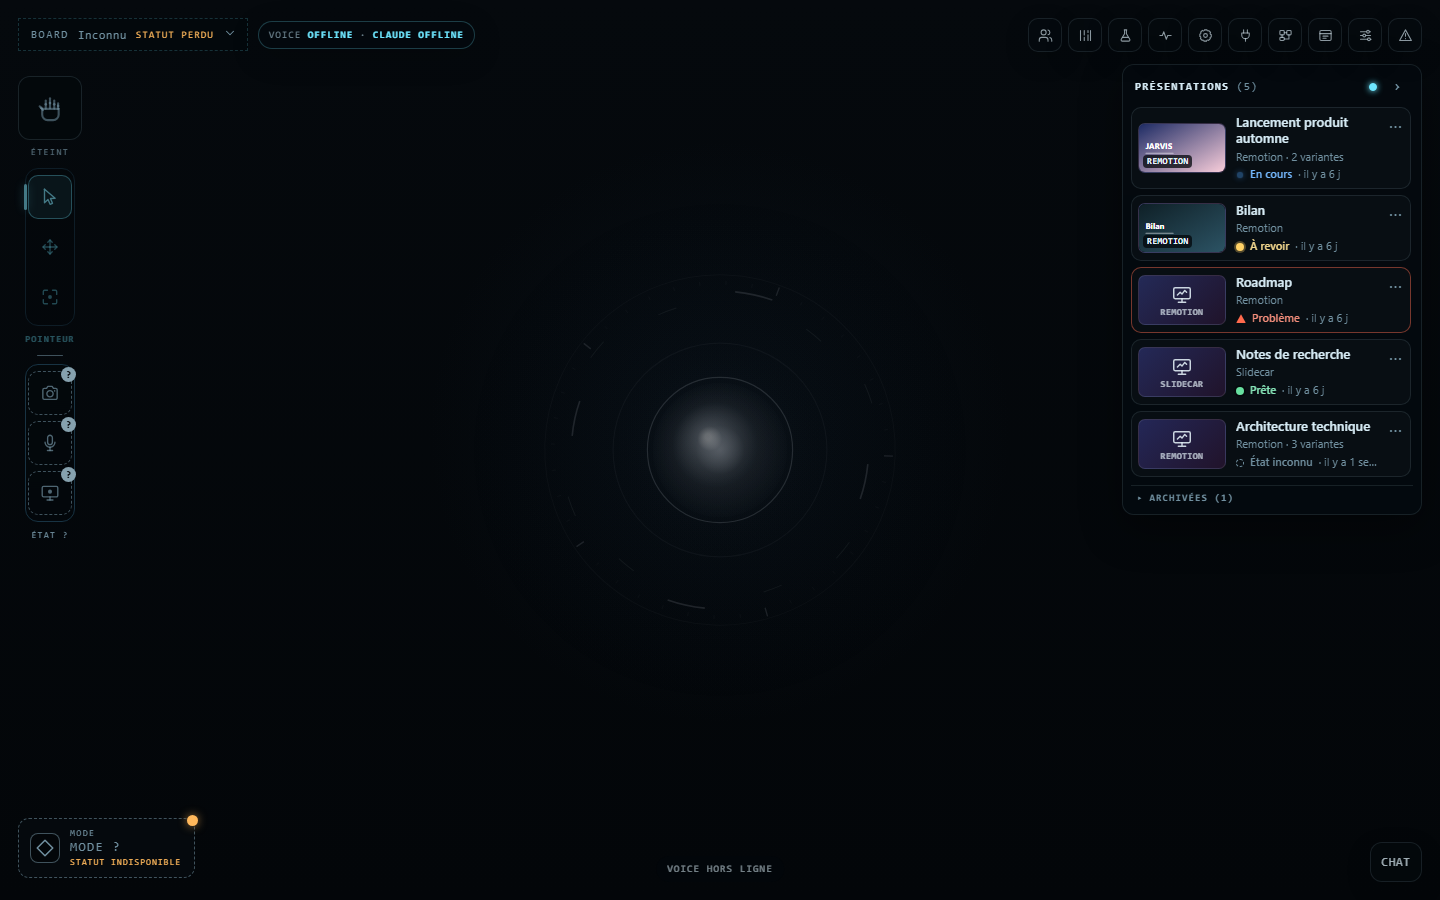
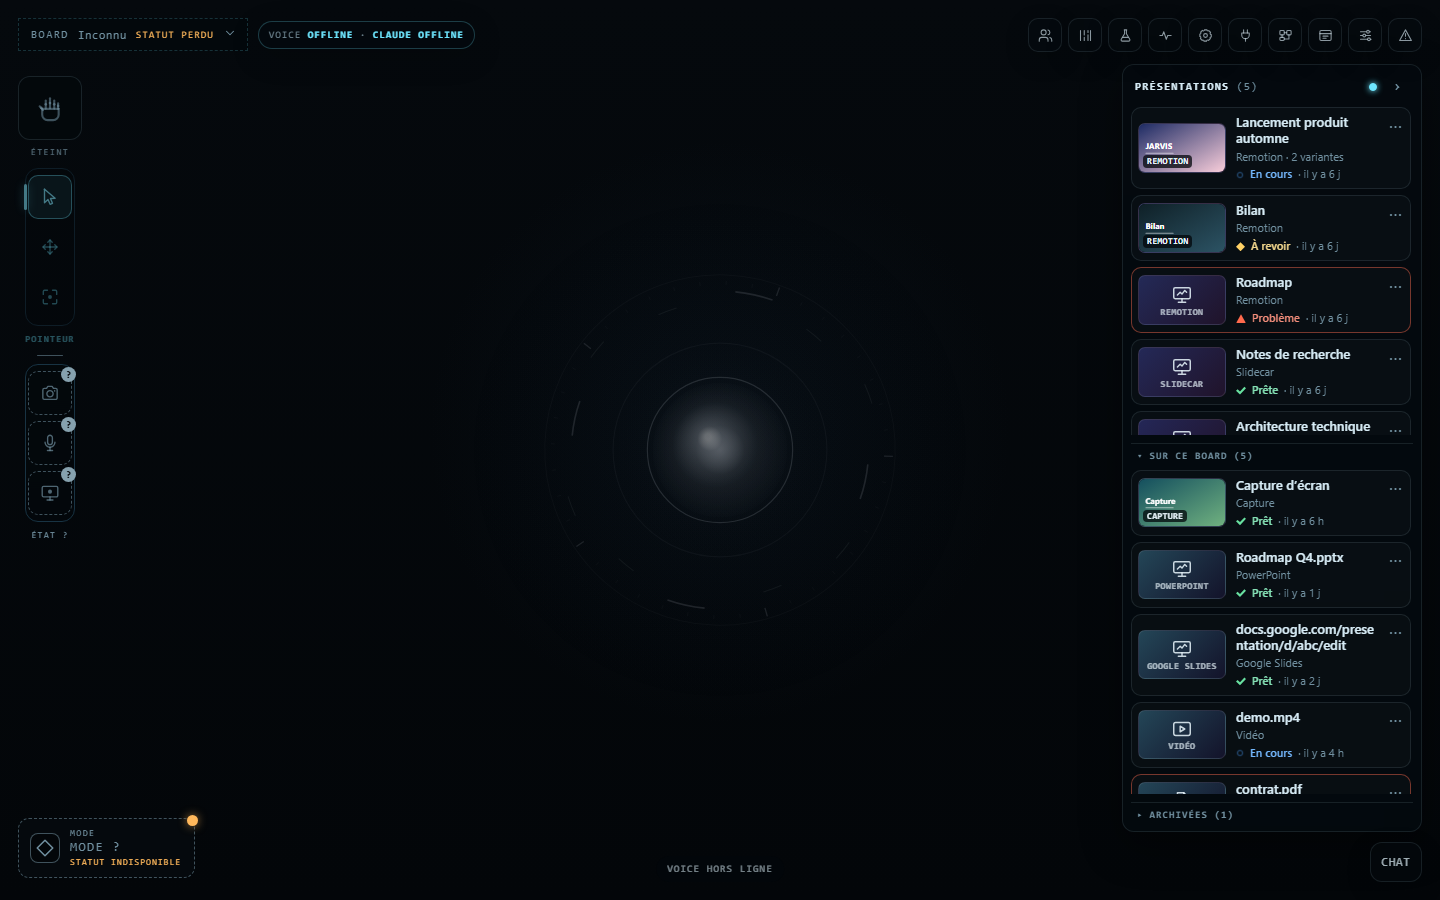
S7: rework - focus kept for every rail card, a shape per state, review said in words
Focus survives poll re-renders for Board and folded cards and Esc from a
card menu returns to the card (restored by data-id). Each state has its
own mark shape in every density (ring, triangle, diamond, check, dashed
ring). The tooltip no longer shows the internal unreviewed label.

Changed region(s): [[0.7812, 0.4667, 0.9688, 0.9333], [0.8438, 0.2489, 0.9062, 0.28], [0.875, 0.4044, 0.9062, 0.4356]]

diff --git a/jarvis/runtime/control_center_presentation_rail.js b/jarvis/runtime/control_center_presentation_rail.js
@@ -46,7 +46,7 @@
   const ID_ARTIFACT=/^[a-z][a-z0-9]*_[A-Za-z0-9_]{6,80}$/;
   const STORAGE_KEY='jarvis.presentationRail.v1';
   /* Le libellé accompagne TOUJOURS la pastille (la couleur ne porte jamais l'état seule) : long pour l'infobulle et l'ARIA, court à l'écran. */
-  const STATE_LABEL=Object.freeze({working:'Un agent travaille dessus',problem:'Un problème est survenu',unreviewed:'Modifiée par Jarvis, à revoir',
+  const STATE_LABEL=Object.freeze({working:'Un agent travaille dessus',problem:'Un problème est survenu',unreviewed:'Modifiée par Jarvis — à revoir',
     done:'Terminé',unknown:'État inconnu'});
   const STATE_SHORT=Object.freeze({working:'En cours',problem:'Problème',unreviewed:'À revoir',done:'Prête',unknown:'État inconnu'});
   /* Étape B : état d'un Artifact du Board (pas de jaune : aucun propriétaire canonique de « revu »). */
@@ -209,10 +209,14 @@
 #${DOM.hostId} .jvr-item[data-state=unknown] .jvr-state{color:var(--jvr-mute)}
 #${DOM.hostId} .jvr-when{color:var(--jvr-mute);overflow:hidden;text-overflow:ellipsis}
 #${DOM.hostId} .jvr-dot{flex:0 0 auto;width:8px;height:8px;border-radius:50%;background:var(--c);box-shadow:0 0 0 2px rgba(0,0,0,.35)}
-#${DOM.hostId} .jvr-item[data-state=working] .jvr-dot{animation:jvr-pulse 1.3s ease-in-out infinite;box-shadow:0 0 8px var(--c)}
-#${DOM.hostId} .jvr-item[data-state=problem] .jvr-dot{width:10px;height:9px;border-radius:1px;clip-path:polygon(50% 0,100% 100%,0 100%);box-shadow:none}
-#${DOM.hostId} .jvr-item[data-state=unreviewed] .jvr-dot{box-shadow:0 0 0 2px color-mix(in srgb,var(--c) 30%,transparent)}
-#${DOM.hostId} .jvr-item[data-state=unknown] .jvr-dot{border:1px dashed var(--jvr-mute);box-shadow:none}
+/* A shape per state (status never by colour alone, also in the 72 px strip where the label hides): working = ring (pulsing), problem =
+   triangle, unreviewed = diamond, done = check, unknown = dashed hollow ring. Same rules for the header's « most urgent » mark and the bubble. */
+#${DOM.hostId} :is([data-state=working] .jvr-dot,.jvr-urgent[data-state=working]){-webkit-mask:radial-gradient(circle,transparent 2px,#000 2.6px);mask:radial-gradient(circle,transparent 2px,#000 2.6px);box-shadow:none}
+#${DOM.hostId} .jvr-item[data-state=working] .jvr-dot{animation:jvr-pulse 1.3s ease-in-out infinite}
+#${DOM.hostId} :is([data-state=problem] .jvr-dot,.jvr-urgent[data-state=problem]){width:10px;height:9px;border-radius:1px;clip-path:polygon(50% 0,100% 100%,0 100%);box-shadow:none}
+#${DOM.hostId} :is([data-state=unreviewed] .jvr-dot,.jvr-urgent[data-state=unreviewed]){width:9px;height:9px;border-radius:1px;clip-path:polygon(50% 0,100% 50%,50% 100%,0 50%);box-shadow:none}
+#${DOM.hostId} :is([data-state=done] .jvr-dot,.jvr-urgent[data-state=done]){width:10px;height:9px;border-radius:0;clip-path:polygon(0 52%,16% 36%,40% 60%,84% 8%,100% 24%,40% 94%);box-shadow:none}
+#${DOM.hostId} [data-state=unknown] .jvr-dot{border:1px dashed var(--jvr-mute);box-shadow:none}
 #${DOM.hostId} .jvr-item[data-state=problem]{border-color:color-mix(in srgb,var(--sem-problem,#ff6a4d) 45%,transparent)}
 @keyframes jvr-pulse{50%{opacity:.35;transform:scale(.8)}}
 @media (prefers-reduced-motion:reduce){#${DOM.hostId} .jvr-item[data-state=working] .jvr-dot{animation:none}#${DOM.hostId} .jvr-item{transition:none}}
@@ -399,8 +403,7 @@ html.jvr-studio.jvr-slim #${DOM.hostId}{width:44px;padding:8px 4px}
       if(card.when)status.append(el('span','jvr-when',`· ${card.when}`));
       body.append(name,meta,status);b.append(body);
       const detail=card.state==='problem'&&row.work&&row.work.message?` — ${cleanLine(row.work.message,120)}`:'';
-      const review=card.state==='unreviewed'&&row.unreviewed&&row.unreviewed.label?` (${cleanLine(row.unreviewed.label,40)})`:'';
-      b.title=`${card.title}\n${card.meta}\n${card.stateLabel}${detail}${review}${card.when?`\nModifiée ${card.when}`:''}${row.hidden?'\nMasquée du rail':''}${row.archived?'\nArchivée (restaurable)':''}`;
+      b.title=`${card.title}\n${card.meta}\n${card.stateLabel}${detail}${card.when?`\nModifiée ${card.when}`:''}${row.hidden?'\nMasquée du rail':''}${row.archived?'\nArchivée (restaurable)':''}`;
       b.setAttribute('aria-label',`${card.title}, ${card.type.label} : ${card.stateLabel.toLowerCase()}${row.hidden?', masquée':''}${row.archived?', archivée':''}`);
       b.addEventListener('click',()=>{if(row.archived){openMenuFor(row,b);return}openRow(row.presentation_id,'click')});
       b.addEventListener('contextmenu',e=>{e.preventDefault();openMenuFor(row,b,e.clientX,e.clientY)});
@@ -443,7 +446,7 @@ html.jvr-studio.jvr-slim #${DOM.hostId}{width:44px;padding:8px 4px}
       const row=wsItem?null:rowOf(item.dataset.id);if((!row&&!wsItem)||!ui.peek)return;
       const card=wsItem?wsCardOf(wsItem):cardOf(row,now());
       clear(ui.peek);
-      const status=el('span','jvr-status');status.style.setProperty('--c',card.color);
+      const status=el('span','jvr-status');status.style.setProperty('--c',card.color);status.dataset.state=card.state;
       const dot=el('span','jvr-dot');status.append(dot,el('span','jvr-state',card.stateShort));
       ui.peek.append(el('span','jvr-name',card.title),el('span','jvr-meta',card.meta),status);
       const h=ui.host.getBoundingClientRect(),r=item.getBoundingClientRect();
@@ -567,6 +570,7 @@ html.jvr-studio.jvr-slim #${DOM.hostId}{width:44px;padding:8px 4px}
       ui.count.textContent=m.visible.length?`(${m.visible.length})`:'';
       const urgent=m.problems.length?'problem':m.working.length?'working':m.unreviewed.length?'unreviewed':null;
       ui.urgent.style.setProperty('--c',urgent?STATE_COLOR[urgent]:'transparent');ui.urgent.title=urgent?STATE_LABEL[urgent]:'';
+      if(urgent)ui.urgent.dataset.state=urgent;else delete ui.urgent.dataset.state;
       if(density==='drawer'){
         ui.collapseBtn.textContent=S.drawer?'›':'‹';ui.collapseBtn.setAttribute('aria-expanded',String(S.drawer));
         ui.collapseBtn.setAttribute('aria-label',S.drawer?'Fermer le rail des présentations':`Ouvrir le rail des présentations${urgent?` (${STATE_SHORT[urgent].toLowerCase()})`:''}`);
@@ -577,7 +581,8 @@ html.jvr-studio.jvr-slim #${DOM.hostId}{width:44px;padding:8px 4px}
       ui.collapseBtn.title=ui.collapseBtn.getAttribute('aria-label');
       ui.voice.dataset.v=S.voice||'idle';ui.voice.setAttribute('aria-label',`Voix : ${S.voice||'idle'}`);ui.voice.title=`Voix de Jarvis : ${S.voice||'idle'} (elle reste utilisable pendant l’affichage)`;
       /* La liste est reconstruite à chaque relevé : la carte qui avait le focus le retrouve (sinon le clavier le perdrait toutes les 2 à 4 s). */
-      const focused=doc.activeElement&&ui.list.contains(doc.activeElement)&&doc.activeElement.dataset?doc.activeElement.dataset.id:null;
+      const active=doc.activeElement;
+      const focused=active&&ui.host.contains(active)&&active.classList&&active.classList.contains('jvr-item')?active.dataset.id:null;
       clear(ui.list);
       if(!S.loaded&&!S.lost)ui.list.appendChild(el('li','jvr-empty','Chargement…'));
       else if(!m.visible.length)ui.list.appendChild(el('li','jvr-empty',m.total?'Toutes sont masquées ou archivées.':'Aucune présentation.'));
@@ -597,7 +602,7 @@ html.jvr-studio.jvr-slim #${DOM.hostId}{width:44px;padding:8px 4px}
       ui.note.title=note&&!S.lost?'Cliquer pour masquer ce message':'';
       doc.documentElement.classList.toggle('jvr-studio',!!(S.studioOpen&&visible));
       doc.documentElement.classList.toggle('jvr-slim',!!(S.studioOpen&&visible&&slim));
-      if(focused){const again=ui.host.querySelector(`.jvr-item[data-id="${focused}"]`);if(again){again.focus({preventScroll:true});if(slim)showPeek(again)}}
+      if(focused&&doc.activeElement!==ui.host.querySelector(`.jvr-item[data-id="${focused}"]`)){const again=itemById(focused);if(again){again.focus({preventScroll:true});if(slim)showPeek(again)}}
       syncStudioInset(visible);
       reportSoon();
     }
@@ -777,7 +782,7 @@ html.jvr-studio.jvr-slim #${DOM.hostId}{width:44px;padding:8px 4px}
     function openMenu(title,items,origin,x,y,onPick,row){
       closeMenu(false);
       const rect=origin.getBoundingClientRect();
-      S.menuRow={row:row||null,origin};
+      S.menuRow={row:row||null,origin,id:origin&&origin.dataset?origin.dataset.id:null};
       clear(ui.menu);
       const head=el('div','jvr-mhead',cleanLine(title,40));ui.menu.appendChild(head);
       for(const it of items){
@@ -800,9 +805,11 @@ html.jvr-studio.jvr-slim #${DOM.hostId}{width:44px;padding:8px 4px}
       const first=ui.menu.querySelector('button:not([aria-disabled=true])');if(first)first.focus({preventScroll:true});
       log('menu_opened',{items:items.length});
     }
+    /* A card by its canonical id (the list is rebuilt on every Core read: a kept DOM node may be detached). */
+    function itemById(id){return id&&ui.host?Array.from(ui.host.querySelectorAll('.jvr-item')).find(n=>n.dataset.id===id)||null:null}
     function closeMenu(restore){
       const was=S.menuRow;S.menuRow=null;if(ui.menu){ui.menu.hidden=true;clear(ui.menu)}
-      if(restore&&was&&was.origin&&was.origin.isConnected)was.origin.focus({preventScroll:true});
+      if(restore&&was&&was.origin){const target=was.origin.isConnected?was.origin:itemById(was.id);if(target)target.focus({preventScroll:true})}
     }
     function onMenuKey(event){
       const buttons=Array.from(ui.menu.querySelectorAll('button'));const i=buttons.indexOf(doc.activeElement);

diff --git a/tests/unit/test_control_center_presentation_rail_browser.py b/tests/unit/test_control_center_presentation_rail_browser.py
@@ -272,3 +272,34 @@ def test_board_linked_artifacts_are_typed_cards_and_a_board_switch_drops_them(r)
     assert [i["act"] for i in r["board_menu"]["menu"]["items"]] == ["ws-open", "ws-link"]
     assert r["board_switched_now"]["wsItems"] == [] and r["board_switched_now"]["wsCalls"] == ["b", "c"], "the previous Board's items leave at once"
     assert r["board_switched"]["wsItems"] == [] and r["board_switched"]["wsHead"] is None
+
+
+# ------------------------------------------------------------------ Slice 07 rework (QA) : focus de toute carte, forme par etat, infobulle
+
+
+def test_focus_survives_polls_on_board_and_folded_cards_and_escape_returns_to_the_board_card(r):
+    assert r["focus_board"] == {"active": "jart_" + "c" * 32, "polls": r["focus_board"]["polls"]} and r["focus_board"]["polls"] >= 2
+    assert r["focus_folded"]["active"] == "pst_" + "5".zfill(32) and r["focus_folded"]["polls"] >= 2
+    assert r["menu_open_active"] == "menu"
+    assert r["focus_after_menu"] == "jart_" + "c" * 32, "Escape returns focus to the card, re-rendered meanwhile"
+
+
+SHAPES = {"working": ("none", "radial-gradient"), "problem": ("polygon(50% 0px, 100% 100%, 0px 100%)", "none"),
+          "unreviewed": ("polygon(50% 0px, 100% 50%, 50% 100%, 0px 50%)", "none"), "done": ("polygon(0px 52%", "none"),
+          "unknown": ("none", "none")}
+
+
+def test_every_state_has_its_own_shape_in_every_density(r):
+    for read in (r["cards_circuit-board"], r["cards_cosmos"], r["slim_cosmos"], r["slim_circuit-board"]):
+        seen = set()
+        for item in read["items"]:
+            clip, mask = SHAPES[item["state"]]
+            assert item["dotShape"].startswith(clip) and (mask in item["dotMask"]), (read["density"], item["state"], item["dotShape"], item["dotMask"])
+            seen.add((item["dotShape"], item["dotMask"][:20], item["dotBorder"]))
+        assert len(seen) == 5, "five states, five distinct shapes (status never by colour alone, also at 72 px)"
+
+
+def test_the_tooltip_says_the_review_in_words_never_a_tool_identifier(r):
+    bilan = next(i for i in r["cards_cosmos"]["items"] if i["state"] == "unreviewed")
+    assert "Modifiée par Jarvis — à revoir" in bilan["full"] and "presentation_edit" not in bilan["full"]
+    assert "presentation_edit" not in bilan["label"]

diff --git a/tasks/jarvis-board-orbital-ui-workspace-rail/LOG.md b/tasks/jarvis-board-orbital-ui-workspace-rail/LOG.md
@@ -65,3 +65,10 @@
 - Tests: new `test_workspace_rail_model_js.py` (3: `test_items_from_board_artifacts_typed_by_mime_and_host`, `test_board_switch_drops_previous_items`, failure path); rail browser +1 (`test_board_linked_artifacts_are_typed_cards_and_a_board_switch_drops_them`) -> 19; e2e: the real still, auto-linked to the active Board by Core, appears under « Sur ce Board » through the real workspace relay (3 passed). After: rail_js 13, shell_layers 9, shell_browser 20, variants_run_browser 6, catalog_ui 14, fullscreen_commands 36, memory_settings_endpoints 17, inspector_docs 9, continuous_sequencing_docs 3, barehands_benchmark_ui_js 29, prefab_protocol_js 14 — all green.
 - Cut procedure: revert this commit; Stage A (`b054f857`) stands alone.
 - Evidence: `evidence/rail-board-items-1440.png`.
+
+## 2026-10-16 - S07 rework (QA blocking points, frozen scope)
+
+- Focus: kept across poll re-renders for every card of the rail (`ui.host`, main list, « Sur ce Board », Masquées / Archivées folds), restored by `data-id`; `Esc` from a card menu returns focus to the card by id even when the card node was redrawn while the menu was open.
+- Status never by colour alone, also in the 72 px strip: a mark shape per state in every density and for the header's urgent mark and the hover bubble — working ring (pulsing), problem triangle, unreviewed diamond, done check, unknown dashed ring.
+- Tooltip: the review is said in words (« Modifiée par Jarvis — à revoir »); the internal `unreviewed.label` (tool id) is no longer shown.
+- Tests: rail browser 19 -> 22 (`test_focus_survives_polls_on_board_and_folded_cards_and_escape_returns_to_the_board_card`, `test_every_state_has_its_own_shape_in_every_density`, `test_the_tooltip_says_the_review_in_words_never_a_tool_identifier`); green after: rail_js 13, e2e 3, shell_layers 9, workspace_rail_model_js 3, presentation_studio_rail 22. Evidence PNGs refreshed.

diff --git a/docs/control-center-shell.md b/docs/control-center-shell.md
@@ -312,11 +312,13 @@ from the edges) and `#jvStudioExplorer:not(:fullscreen)` stops at
 `right: 188px` (60 px when slim); during a run the interaction-mode control
 sits at the bottom of that right column (`control_center_presentation_studio_explorer_core.js`).
 
-**State, never by colour alone.** Every card shows a dot **and** a label:
-`working` « En cours » `--sem-working`, pulsing; `problem` « Problème »
-`--sem-problem`, a triangle and an orange-red card stroke (never relabelled as
-review); `unreviewed` « À revoir » `--sem-review`; `done` « Prête »
-`--sem-done`; `unknown` « État inconnu », dashed hollow ring. Precedence
+**State, never by colour alone.** Every card shows a mark with its own
+**shape** in every density (also in the 72 px strip, where the label shows
+only on hover and focus) **and** a label: `working` « En cours »
+`--sem-working`, pulsing ring; `problem` « Problème » `--sem-problem`,
+triangle and an orange-red card stroke (never relabelled as review);
+`unreviewed` « À revoir » `--sem-review`, diamond; `done` « Prête » / « Prêt »
+`--sem-done`, check; `unknown` « État inconnu », dashed hollow ring. Precedence
 working > problem > unreviewed > done.
 
 **Stage B.** A second listbox « Sur ce Board » under the presentations shows the Artifacts linked to the active Board in the same cards
@@ -326,7 +328,9 @@ working > problem > unreviewed > done.
 **Focus.** The list is one listbox (arrows, `ContextMenu` / `Shift+F10`, `F2`,
 `Delete`); the « ⋯ » button is a pointer and Bare Hands affordance with
 `tabindex=-1`. The list is rebuilt on every Core read and the focused card
-keeps the focus.
+keeps the focus, wherever it is (main list, « Sur ce Board », the Masquées /
+Archivées folds); closing a card's menu with `Esc` returns the focus to that
+card even if it was redrawn meanwhile (restored by its id).
 
 ## Tool wheel (`#toolWheel`)
 

diff --git a/docs/presentation-studio.md b/docs/presentation-studio.md
@@ -4439,7 +4439,8 @@ placeholder (« Présentation · Remotion » / « Slidecar », a drawn screen gl
 - Persisted, unlike the work state: a Core restart keeps the yellow.
 
 **Displayed state** (page, `displayState`): `working` (blue) > `problem` (orange-red, triangle, own card stroke) > `unreviewed` (yellow) > `done` (green); a row without a
-readable work state is `unknown` (dashed ring, « État inconnu »), never green. A text label always accompanies the dot (« En cours », « Problème », « À revoir », « Prête »,
+readable work state is `unknown` (dashed ring, « État inconnu »), never green. Each state has its own mark shape in every density (ring, triangle, diamond,
+check, dashed ring) and a text label always accompanies it (« En cours », « Problème », « À revoir », « Prête »,
 « État inconnu »); the tooltip and the accessible name carry the long label and, for a problem, its message.
 
 **Card.** Preview (or placeholder) with the engine badge, title (40 characters, two lines; full title in the tooltip), `engine · N variantes`, dot + label + « il y a … »
